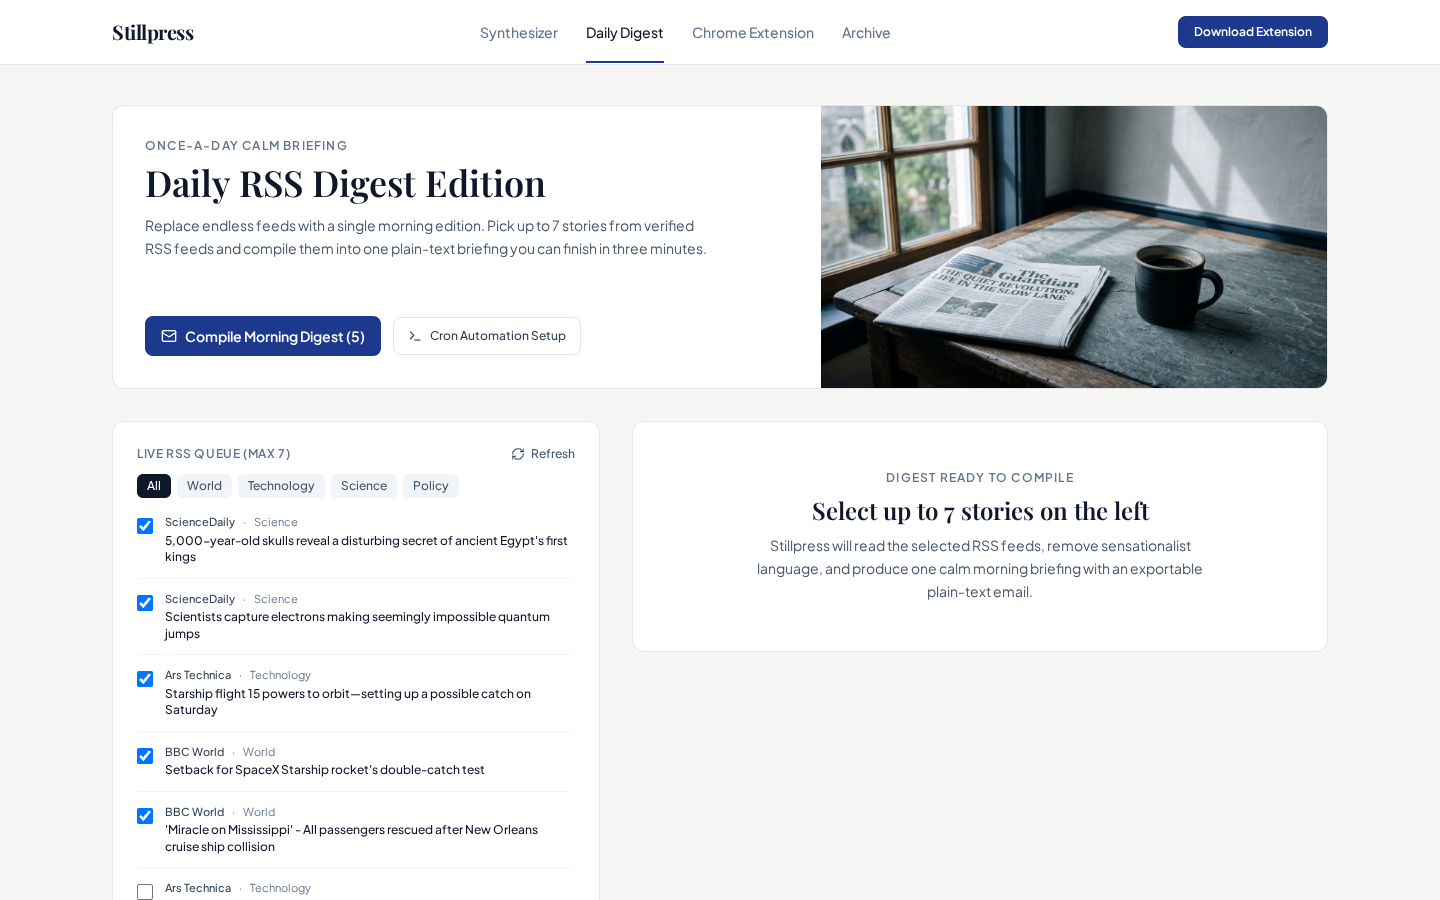
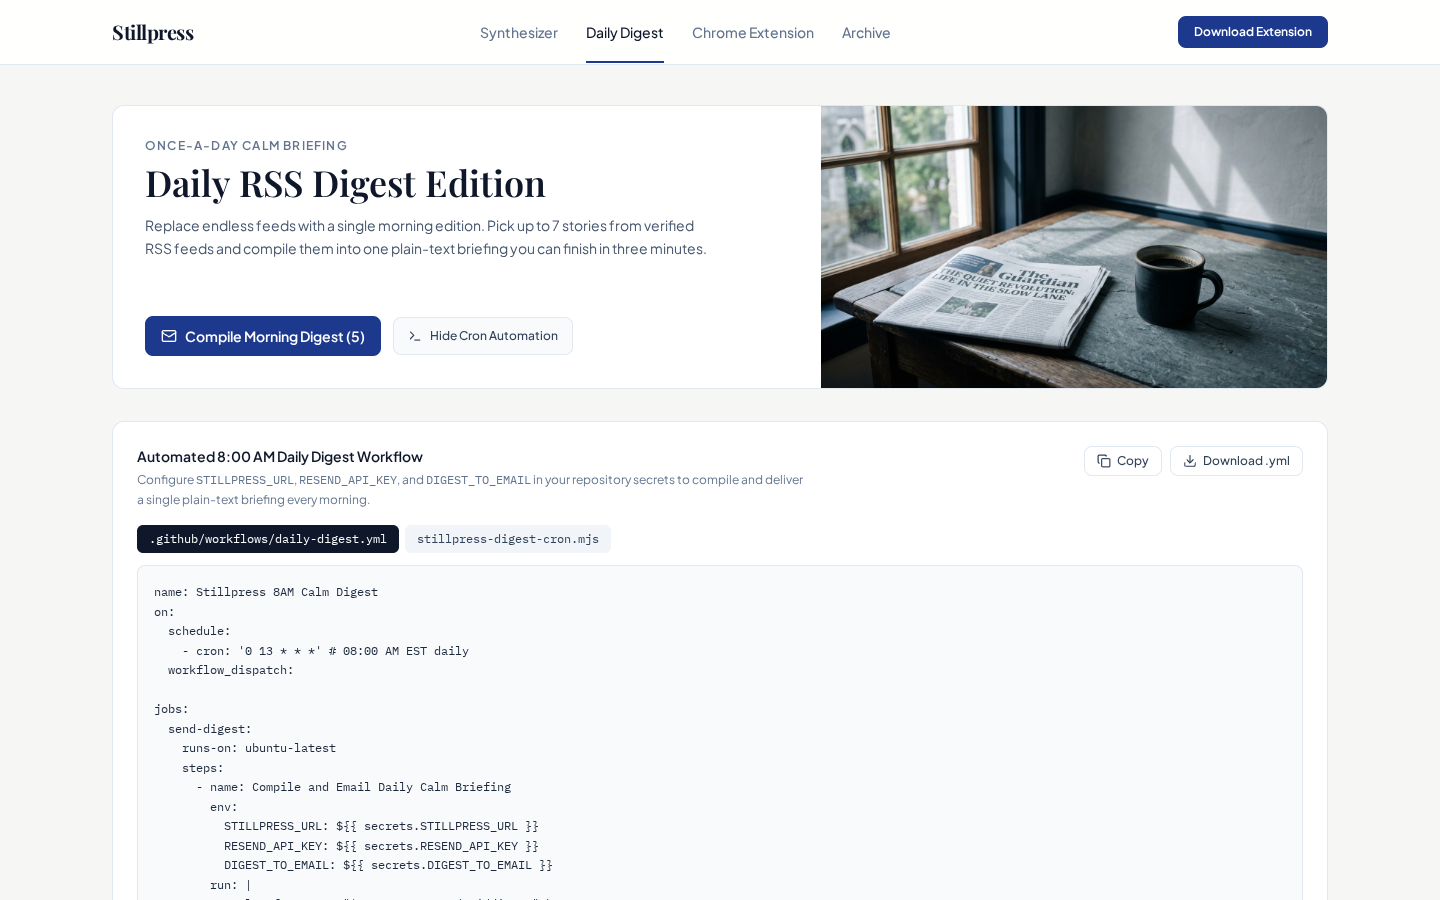
feat(digest): improve GitHub Actions cron template
Update the cron YAML to include explicit environment variables for email notifications and simplify the command execution flow.

diff --git a/src/components/DailyDigestView.tsx b/src/components/DailyDigestView.tsx
@@ -22,6 +22,8 @@ export const DailyDigestView: React.FC = () => {
   const [digest, setDigest] = useState<DailyDigestResult | null>(null);
   const [showPlainText, setShowPlainText] = useState(false);
   const [showCronPanel, setShowCronPanel] = useState(false);
+  const [cronTab, setCronTab] = useState<'actions' | 'node'>('actions');
+  const [copiedCron, setCopiedCron] = useState(false);
   const [copiedText, setCopiedText] = useState(false);
 
   const loadFeeds = async (cat: RssCategory | 'all') => {
@@ -101,8 +103,6 @@ export const DailyDigestView: React.FC = () => {
     URL.revokeObjectURL(url);
   };
 
-  const origin = typeof window !== 'undefined' ? window.location.origin : 'https://your-stillpress-host.com';
-
   const cronYaml = `name: Stillpress 8AM Calm Digest
 on:
   schedule:
@@ -113,16 +113,102 @@ jobs:
   send-digest:
     runs-on: ubuntu-latest
     steps:
-      - name: Compile Daily Digest from RSS Wire
+      - name: Compile and Email Daily Calm Briefing
+        env:
+          STILLPRESS_URL: \${{ secrets.STILLPRESS_URL }}
+          RESEND_API_KEY: \${{ secrets.RESEND_API_KEY }}
+          DIGEST_TO_EMAIL: \${{ secrets.DIGEST_TO_EMAIL }}
         run: |
-          curl -s -X POST "${origin}/api/digest" \\
+          curl -sf -X POST "\$STILLPRESS_URL/api/digest" \\
             -H "Content-Type: application/json" \\
             -d '{}' > digest.json
+
           node -e '
             const fs = require("fs");
-            const data = JSON.parse(fs.readFileSync("digest.json", "utf8"));
-            console.log(data.plainTextEmail);
-          ' > morning-briefing.txt`;
+            const digest = JSON.parse(fs.readFileSync("digest.json", "utf8"));
+            if (!digest.plainTextEmail) throw new Error("Empty digest payload");
+
+            fetch("https://api.resend.com/emails", {
+              method: "POST",
+              headers: {
+                "Authorization": \`Bearer \${process.env.RESEND_API_KEY}\`,
+                "Content-Type": "application/json"
+              },
+              body: JSON.stringify({
+                from: "Stillpress <digest@yourdomain.com>",
+                to: [process.env.DIGEST_TO_EMAIL],
+                subject: \`Stillpress Morning Briefing — \${digest.editionDate}\`,
+                text: digest.plainTextEmail
+              })
+            }).then(async (res) => {
+              if (!res.ok) throw new Error(await res.text());
+              console.log("Daily calm briefing delivered.");
+            });
+          '`;
+
+  const nodeCronScript = `// stillpress-digest-cron.mjs
+// Run via system cron or Cloud Scheduler: 0 8 * * * node stillpress-digest-cron.mjs
+const STILLPRESS_URL = process.env.STILLPRESS_URL || "https://your-stillpress-domain.com";
+const RESEND_API_KEY = process.env.RESEND_API_KEY;
+const DIGEST_TO_EMAIL = process.env.DIGEST_TO_EMAIL;
+
+async function sendMorningDigest() {
+  const digestRes = await fetch(\`\${STILLPRESS_URL}/api/digest\`, {
+    method: "POST",
+    headers: { "Content-Type": "application/json" },
+    body: JSON.stringify({}),
+  });
+
+  if (!digestRes.ok) {
+    throw new Error(\`Digest compilation failed: HTTP \${digestRes.status}\`);
+  }
+
+  const digest = await digestRes.json();
+
+  const emailRes = await fetch("https://api.resend.com/emails", {
+    method: "POST",
+    headers: {
+      Authorization: \`Bearer \${RESEND_API_KEY}\`,
+      "Content-Type": "application/json",
+    },
+    body: JSON.stringify({
+      from: "Stillpress <digest@yourdomain.com>",
+      to: [DIGEST_TO_EMAIL],
+      subject: \`Stillpress Morning Briefing — \${digest.editionDate}\`,
+      text: digest.plainTextEmail,
+    }),
+  });
+
+  if (!emailRes.ok) {
+    throw new Error(await emailRes.text());
+  }
+
+  console.log(\`Delivered Stillpress digest for \${digest.editionDate}\`);
+}
+
+sendMorningDigest().catch((err) => {
+  console.error(err);
+  process.exit(1);
+});`;
+
+  const activeCronCode = cronTab === 'actions' ? cronYaml : nodeCronScript;
+
+  const handleCopyCron = async () => {
+    await navigator.clipboard.writeText(activeCronCode);
+    setCopiedCron(true);
+    setTimeout(() => setCopiedCron(false), 2000);
+  };
+
+  const handleDownloadCron = () => {
+    const filename = cronTab === 'actions' ? 'stillpress-daily-digest.yml' : 'stillpress-digest-cron.mjs';
+    const blob = new Blob([activeCronCode], { type: 'text/plain;charset=utf-8' });
+    const url = URL.createObjectURL(blob);
+    const a = document.createElement('a');
+    a.href = url;
+    a.download = filename;
+    a.click();
+    URL.revokeObjectURL(url);
+  };
 
   return (
     <div className="space-y-8">
@@ -186,18 +272,69 @@ jobs:
 
       {showCronPanel && (
         <section className="rounded-xl border border-slate-200 bg-white p-6 dark:border-slate-800 dark:bg-[#16191D]">
-          <div className="flex flex-wrap items-center justify-between gap-4">
+          <div className="flex flex-col gap-4 sm:flex-row sm:items-start sm:justify-between">
             <div>
               <h2 className="text-sm font-semibold text-slate-900 dark:text-slate-100">
-                Automated 8:00 AM Daily Digest Cron Workflow
+                Automated 8:00 AM Daily Digest Workflow
               </h2>
-              <p className="mt-1 text-xs text-slate-500 dark:text-slate-400">
-                Schedule this GitHub Actions workflow to invoke Stillpress’s live RSS + Gemini digest endpoint every morning and pipe the plain-text briefing to Resend or SendGrid.
+              <p className="mt-1 max-w-2xl text-xs leading-relaxed text-slate-500 dark:text-slate-400">
+                Configure <code className="font-mono">STILLPRESS_URL</code>,{' '}
+                <code className="font-mono">RESEND_API_KEY</code>, and{' '}
+                <code className="font-mono">DIGEST_TO_EMAIL</code> in your repository secrets to compile and deliver a single plain-text briefing every morning.
               </p>
             </div>
+
+            <div className="flex flex-wrap items-center gap-2 shrink-0">
+              <button
+                type="button"
+                onClick={handleCopyCron}
+                className="inline-flex items-center gap-1.5 rounded-lg border border-slate-200 px-3 py-1.5 text-xs font-medium text-slate-700 hover:bg-slate-50 cursor-pointer dark:border-slate-700 dark:text-slate-200 dark:hover:bg-slate-800"
+              >
+                {copiedCron ? (
+                  <Check className="h-3.5 w-3.5 text-emerald-700 dark:text-emerald-400" />
+                ) : (
+                  <Copy className="h-3.5 w-3.5" />
+                )}
+                {copiedCron ? 'Copied' : 'Copy'}
+              </button>
+              <button
+                type="button"
+                onClick={handleDownloadCron}
+                className="inline-flex items-center gap-1.5 rounded-lg border border-slate-200 px-3 py-1.5 text-xs font-medium text-slate-700 hover:bg-slate-50 cursor-pointer dark:border-slate-700 dark:text-slate-200 dark:hover:bg-slate-800"
+              >
+                <Download className="h-3.5 w-3.5" />
+                {cronTab === 'actions' ? 'Download .yml' : 'Download .mjs'}
+              </button>
+            </div>
           </div>
-          <pre className="mt-4 overflow-x-auto rounded-lg border border-slate-200 bg-slate-50 p-4 font-mono text-xs leading-relaxed text-slate-800 dark:border-slate-800 dark:bg-slate-950 dark:text-slate-200">
-            <code>{cronYaml}</code>
+
+          <div className="mt-4 flex items-center gap-1.5">
+            <button
+              type="button"
+              onClick={() => setCronTab('actions')}
+              className={`rounded-md px-3 py-1.5 font-mono text-xs transition-colors cursor-pointer whitespace-nowrap shrink-0 ${
+                cronTab === 'actions'
+                  ? 'bg-slate-900 text-white dark:bg-slate-100 dark:text-slate-900'
+                  : 'bg-slate-100 text-slate-700 hover:bg-slate-200 dark:bg-slate-800 dark:text-slate-300'
+              }`}
+            >
+              .github/workflows/daily-digest.yml
+            </button>
+            <button
+              type="button"
+              onClick={() => setCronTab('node')}
+              className={`rounded-md px-3 py-1.5 font-mono text-xs transition-colors cursor-pointer whitespace-nowrap shrink-0 ${
+                cronTab === 'node'
+                  ? 'bg-slate-900 text-white dark:bg-slate-100 dark:text-slate-900'
+                  : 'bg-slate-100 text-slate-700 hover:bg-slate-200 dark:bg-slate-800 dark:text-slate-300'
+              }`}
+            >
+              stillpress-digest-cron.mjs
+            </button>
+          </div>
+
+          <pre className="mt-3 overflow-x-auto rounded-lg border border-slate-200 bg-slate-50 p-4 font-mono text-xs leading-relaxed text-slate-800 dark:border-slate-800 dark:bg-slate-950 dark:text-slate-200">
+            <code>{activeCronCode}</code>
           </pre>
         </section>
       )}
